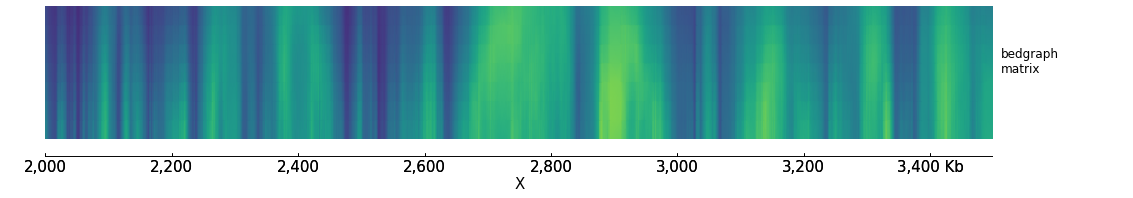
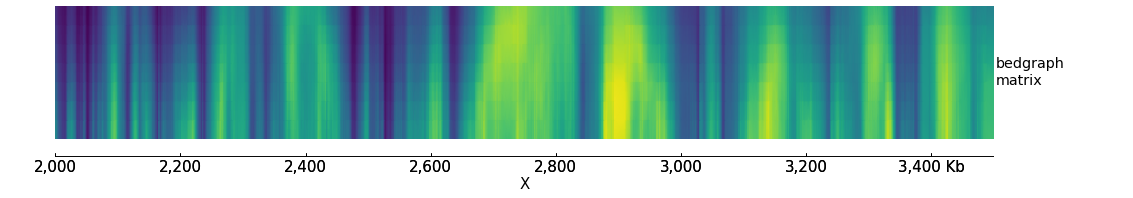
updated README and new track examples

diff --git a/examples/BedMatrixExampleTrack.py b/examples/BedMatrixExampleTrack.py
@@ -1,12 +1,13 @@
+# -*- coding: utf-8 -*-
+from past.builtins import map
 import numpy as np
-from pygenometracks.tracksClass import BedGraphTrack
-from pygenometracks.tracksClass import GenomeTrack
+from . BedGraphTrack import BedGraphTrack
 
 
-class BedGraphMatrixExample(BedGraphTrack):
+class BedGraphMatrixExampleTrack(BedGraphTrack):
     SUPPORTED_ENDINGS = ['.bm', '.bm.gz' '.bedgraphmatrix']
     TRACK_TYPE = 'bedgraph_matrix'
-    OPTIONS_TXT = GenomeTrack.OPTIONS_TXT + """
+    OPTIONS_TXT = BedGraphTrack.OPTIONS_TXT + """
         # a bedgraph matrix file is like a bedgraph, except that per bin there
         # are more than one value separated by tab: E.g.
         # This file type is produced by HiCExplorer tool hicFindTads and contains
@@ -22,15 +23,13 @@ class BedGraphMatrixExample(BedGraphTrack):
         file_type = {}
             """.format(TRACK_TYPE)
 
-    def plot(self, ax, label_ax, chrom_region, start_region, end_region):
+    def plot(self, ax, chrom_region, start_region, end_region):
         """
-
-        :param ax:
-        :param label_ax:
-        :param chrom_region:
-        :param start_region:
-        :param end_region:
-        :return:
+        Args:
+            ax: matplotlib axis to plot
+            chrom_region: chromosome name
+            start_region: start coordinate of genomic position
+            end_region: end coordinate
         """
 
         start_pos = []
@@ -50,4 +49,5 @@ class BedGraphMatrixExample(BedGraphTrack):
         img = ax.pcolormesh(x, y, matrix, vmin=vmin, vmax=vmax, shading=shading)
         img.set_rasterized(True)
 
-        label_ax.text(0.15, 0.5, self.properties['title'])
+    def plot_y_axis(self, ax, plot_axis):
+        pass

diff --git a/examples/helloWorldTrack.py b/examples/helloWorldTrack.py
@@ -1,0 +1,29 @@
+# -*- coding: utf-8 -*-
+from . GenomeTrack import GenomeTrack
+
+
+class TextTrack(GenomeTrack):
+    SUPPORTED_ENDINGS = ['.txt']  # this is used by make_tracks_file to guess the type of track based on file name
+    TRACK_TYPE = 'text'
+    OPTIONS_TXT = """
+height = 3
+title =
+text =
+# x position of text in the plot (in bp)
+x position =
+"""
+
+    def plot(self, ax, chrom, region_start, region_end):
+        """
+        This example simply plots the given title at a fixed
+        location in the axis. The chrom, region_start and region_end
+        variables are not used.
+        Args:
+            ax: matplotlib axis to plot
+            chrom_region: chromosome name
+            start_region: start coordinate of genomic position
+            end_region: end coordinate
+        """
+        # print text at position x = self.properties['x position'] and y = 0.5 (center of the plot)
+        ax.text(float(self.properties['x position']), 0.5, self.properties['text'])
+        # print title in legend axis

diff --git a/pygenometracks/tracks/NarrowPeakTrack.py b/pygenometracks/tracks/NarrowPeakTrack.py
@@ -74,6 +74,16 @@ file_type = {}
         return patches.PathPatch(path)
 
     def plot(self, ax, chrom_region, start_region, end_region):
+        '''
+
+        Args:
+            chrom_region:
+            start_region:
+            end_region:
+
+        Returns:
+
+        '''
         score_list, pos_list = self.get_scores(chrom_region, start_region, end_region, return_nans=False)
 
         self.patches = []

diff --git a/README.md b/README.md
@@ -252,13 +252,14 @@ The configuration file for this image is [here](./pygenometracks/tests/test_data
 
 Adding new tracks
 -----------------
-Adding new tracks to pyGenomeTracks only requires adding a new class that has a `plot` method and defines some basic info.
+Adding new tracks to pyGenomeTracks only requires adding a new file to the `tracks` folder containing a class
+that inherits the `GenomeTrack` class and that has a `plot` method and and some basic info.
 
-For example, to make a track that plots some text at a given location we need to make class that looks like this:
+For example, to make a track that plots 'hello world' at we need to make class that looks like this:
 
 ```python
 class TextTrack(GenomeTrack):
-    SUPPORTED_ENDINGS = ['.txt']  # this is used to guess the type of track based on file name
+    SUPPORTED_ENDINGS = ['.txt']  # this is used by make_tracks_file to guess the type of track based on file name
     TRACK_TYPE = 'text'
     OPTIONS_TXT = """
 height = 3
@@ -267,11 +268,19 @@ text =
 # x position of text in the plot (in bp)
 x position =
 """
-    def plot(self, ax, label_ax, chrom, region_start, region_end):
+    def plot(self, ax, chrom, region_start, region_end):
+        """
+        This example simply plots the given title at a fixed
+        location in the axis. The chrom, region_start and region_end
+        variables are not used.
+        Args:
+            ax: matplotlib axis to plot
+            chrom_region: chromosome name
+            start_region: start coordinate of genomic position
+            end_region: end coordinate
+        """
         # print text at position x = self.properties['x position'] and y = 0.5 (center of the plot)
         ax.text(float(self.properties['x position']), 0.5, self.properties['text'])
-        # print title in legend axis
-        label_ax.text(0.15, 0.5, self.properties['title'])
 
 ```
 
@@ -292,16 +301,24 @@ x position = 3100000
 ```
 
 ```bash
+# pgt is short for `pyGenomeTracks`
 pgt --tracks new_track.ini --region X:3000000-3200000 -o new_track.png
 ```
 
 ![pyGenomeTracks example](./examples/new_track.png)
 
+Notice that the resulting track already includes a y-axis (to the left) and 
+a label to the right. This are the defaults that can be changed by
+adding a `plot_y_axis` and `plot_label` methods. 
 
 Another more complex example is the plotting of multiple bedgraph data as matrices. The output of `HiCExplorer hicFindTADs` produces a data format that
 is similar to a bedgraph but with more value columns. We call this a bedgraph matrix. The following track plot this bedgraph matrix:
  
  ```python
+import numpy as np
+from pygenometracks.tracksClass import BedGraphTrack
+from pygenometracks.tracksClass import GenomeTrack
+
  class BedGraphMatrixTrack(BedGraphTrack):
     # this track class extends a BedGraphTrack that is already part of 
     # pyGenomeTracks. The advantage of extending this class is that
@@ -321,14 +338,13 @@ is similar to a bedgraph but with more value columns. We call this a bedgraph ma
         file_type = {}
         """.format(TRACK_TYPE)
 
-    def plot(self, ax, label_ax, chrom_region, start_region, end_region):
+    def plot(self, ax, chrom_region, start_region, end_region):
         """
-        :param ax: main axis to plot 
-        :param label_ax: label axis
-        :param chrom_region: name of the chromosome for the region to plot
-        :param start_region: start coordinate (in bp) of the region to plot
-        :param end_region: end coordinate (in bp) of the region to plot
-
+        Args:
+            ax: matplotlib axis to plot
+            chrom_region: chromosome name
+            start_region: start coordinate of genomic position
+            end_region: end coordinate
         """
         
         start_pos = []
@@ -363,9 +379,11 @@ is similar to a bedgraph but with more value columns. We call this a bedgraph ma
         img = ax.pcolormesh(x, y, matrix, vmin=vmin, vmax=vmax, shading=shading)
         img.set_rasterized(True)
 
-        # to add the label text
-        label_ax.text(0.15, 0.5, self.properties['title'])
-```
+
+    def plot_y_axis(self, ax, plot_axis):
+        """turn off y_axis plot"
+        pass
+ ```
 
 
 Let's create a track for this:
@@ -388,7 +406,7 @@ pgt --tracks bedgraph_matrix.ini --region X:2000000-3500000 -o bedgraph_matrix.p
 
 ![pyGenomeTracks example](./examples/bedgraph_matrix.png)
 
-Although this image looks interesting a more meaninful way to plot
+Although this image looks interesting another way to plot
 the data is a overlapping lines with the mean value highlighted. 
 Using the bedgraph version of `pyGenomeTracks` the following image
 can be obtained:
